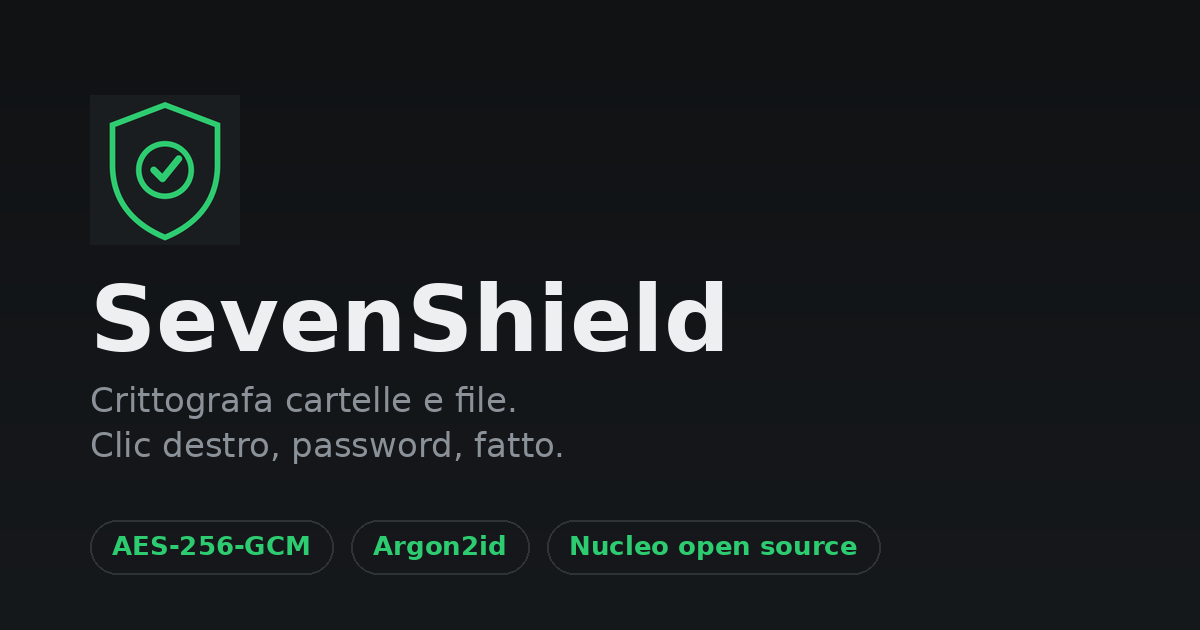
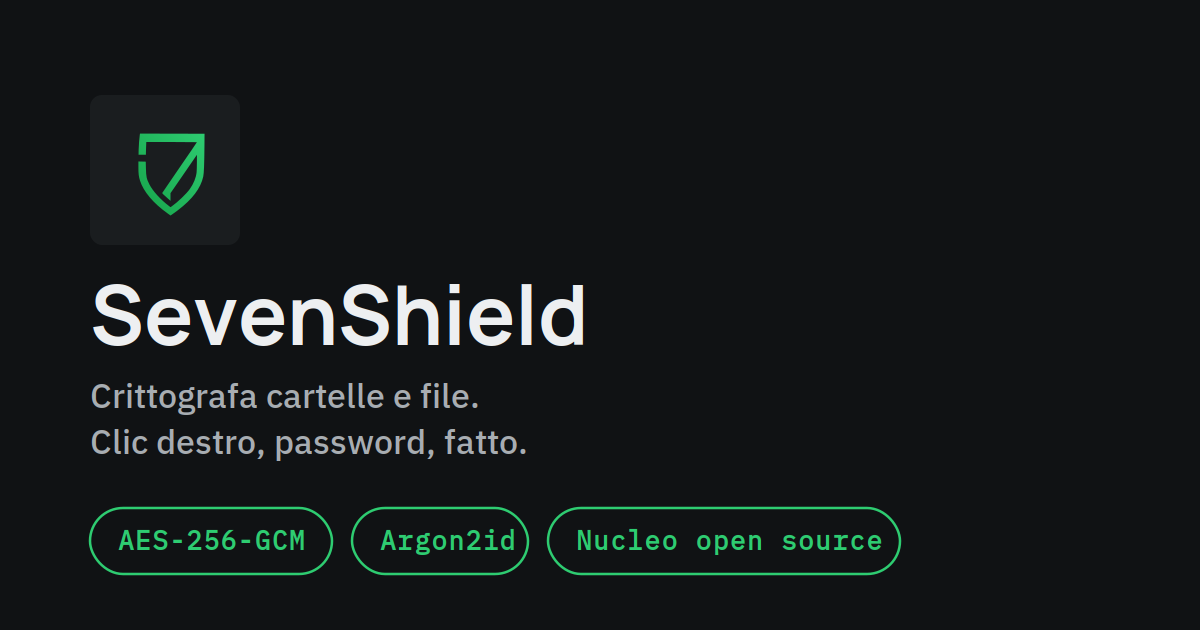
Landingpage Update 04.09.2026 15:20:33,51

diff --git a/en/index.html b/en/index.html
@@ -761,9 +761,26 @@
   <div class="wrap">
     <a class="brand" href="#top">
       <svg width="30" height="30" viewBox="0 0 120 120" fill="none" aria-hidden="true">
-        <path d="M60 8 L102 24 V56 C102 86 84 104 60 114 C36 104 18 86 18 56 V24 Z" fill="none" stroke="#2ECC71" stroke-width="6"/>
-        <circle cx="60" cy="60" r="21" fill="none" stroke="#2ECC71" stroke-width="6"/>
-        <path d="M51 60 L58 67 L71 51" stroke="#2ECC71" stroke-width="7.5" stroke-linecap="round" stroke-linejoin="round" fill="none"/>
+        <defs>
+          <linearGradient id="brandShieldGrad" x1="0%" y1="0%" x2="100%" y2="100%">
+            <stop offset="0%" stop-color="#16A34A"/>
+            <stop offset="100%" stop-color="#2ECC71"/>
+          </linearGradient>
+        </defs>
+        <g transform="translate(13,10) scale(0.28)">
+          <g transform="translate(0.000000,357.000000) scale(0.100000,-0.100000)" fill="url(#brandShieldGrad)" stroke="none">
+            <path d="M727 3013 c-16 -101 -36 -365 -39 -508 l-3 -160 123 0 122 0 0 61 c0
+33 3 129 7 212 l6 152 844 0 c463 0 843 -3 843 -6 0 -4 -78 -119 -173 -258
+-96 -138 -241 -350 -324 -471 -82 -121 -262 -384 -400 -585 -137 -201 -253
+-371 -257 -377 -7 -13 28 -49 192 -192 l82 -73 0 129 0 129 46 65 c25 35 179
+259 342 496 163 238 341 497 395 575 l97 141 0 -249 c0 -137 -5 -288 -10 -335
+-21 -187 -100 -379 -228 -559 -113 -159 -408 -440 -603 -576 l-39 -27 -37 29
+c-285 213 -552 506 -666 729 -94 185 -110 257 -116 535 l-6 225 -122 3 -123 3
+0 -200 c0 -214 11 -304 56 -445 114 -358 437 -743 907 -1079 l108 -77 62 42
+c34 23 115 82 180 131 485 368 764 737 848 1122 24 107 36 422 41 1035 l3 395
+-1076 3 -1076 2 -6 -37z"/>
+          </g>
+        </g>
       </svg>
       <span class="brand-text">
         <span class="brand-name">SevenShield</span>

diff --git a/fr/index.html b/fr/index.html
@@ -761,9 +761,26 @@
   <div class="wrap">
     <a class="brand" href="#top">
       <svg width="30" height="30" viewBox="0 0 120 120" fill="none" aria-hidden="true">
-        <path d="M60 8 L102 24 V56 C102 86 84 104 60 114 C36 104 18 86 18 56 V24 Z" fill="none" stroke="#2ECC71" stroke-width="6"/>
-        <circle cx="60" cy="60" r="21" fill="none" stroke="#2ECC71" stroke-width="6"/>
-        <path d="M51 60 L58 67 L71 51" stroke="#2ECC71" stroke-width="7.5" stroke-linecap="round" stroke-linejoin="round" fill="none"/>
+        <defs>
+          <linearGradient id="brandShieldGrad" x1="0%" y1="0%" x2="100%" y2="100%">
+            <stop offset="0%" stop-color="#16A34A"/>
+            <stop offset="100%" stop-color="#2ECC71"/>
+          </linearGradient>
+        </defs>
+        <g transform="translate(13,10) scale(0.28)">
+          <g transform="translate(0.000000,357.000000) scale(0.100000,-0.100000)" fill="url(#brandShieldGrad)" stroke="none">
+            <path d="M727 3013 c-16 -101 -36 -365 -39 -508 l-3 -160 123 0 122 0 0 61 c0
+33 3 129 7 212 l6 152 844 0 c463 0 843 -3 843 -6 0 -4 -78 -119 -173 -258
+-96 -138 -241 -350 -324 -471 -82 -121 -262 -384 -400 -585 -137 -201 -253
+-371 -257 -377 -7 -13 28 -49 192 -192 l82 -73 0 129 0 129 46 65 c25 35 179
+259 342 496 163 238 341 497 395 575 l97 141 0 -249 c0 -137 -5 -288 -10 -335
+-21 -187 -100 -379 -228 -559 -113 -159 -408 -440 -603 -576 l-39 -27 -37 29
+c-285 213 -552 506 -666 729 -94 185 -110 257 -116 535 l-6 225 -122 3 -123 3
+0 -200 c0 -214 11 -304 56 -445 114 -358 437 -743 907 -1079 l108 -77 62 42
+c34 23 115 82 180 131 485 368 764 737 848 1122 24 107 36 422 41 1035 l3 395
+-1076 3 -1076 2 -6 -37z"/>
+          </g>
+        </g>
       </svg>
       <span class="brand-text">
         <span class="brand-name">SevenShield</span>

diff --git a/index.html b/index.html
@@ -761,9 +761,26 @@
   <div class="wrap">
     <a class="brand" href="#top">
       <svg width="30" height="30" viewBox="0 0 120 120" fill="none" aria-hidden="true">
-        <path d="M60 8 L102 24 V56 C102 86 84 104 60 114 C36 104 18 86 18 56 V24 Z" fill="none" stroke="#2ECC71" stroke-width="6"/>
-        <circle cx="60" cy="60" r="21" fill="none" stroke="#2ECC71" stroke-width="6"/>
-        <path d="M51 60 L58 67 L71 51" stroke="#2ECC71" stroke-width="7.5" stroke-linecap="round" stroke-linejoin="round" fill="none"/>
+        <defs>
+          <linearGradient id="brandShieldGrad" x1="0%" y1="0%" x2="100%" y2="100%">
+            <stop offset="0%" stop-color="#16A34A"/>
+            <stop offset="100%" stop-color="#2ECC71"/>
+          </linearGradient>
+        </defs>
+        <g transform="translate(13,10) scale(0.28)">
+          <g transform="translate(0.000000,357.000000) scale(0.100000,-0.100000)" fill="url(#brandShieldGrad)" stroke="none">
+            <path d="M727 3013 c-16 -101 -36 -365 -39 -508 l-3 -160 123 0 122 0 0 61 c0
+33 3 129 7 212 l6 152 844 0 c463 0 843 -3 843 -6 0 -4 -78 -119 -173 -258
+-96 -138 -241 -350 -324 -471 -82 -121 -262 -384 -400 -585 -137 -201 -253
+-371 -257 -377 -7 -13 28 -49 192 -192 l82 -73 0 129 0 129 46 65 c25 35 179
+259 342 496 163 238 341 497 395 575 l97 141 0 -249 c0 -137 -5 -288 -10 -335
+-21 -187 -100 -379 -228 -559 -113 -159 -408 -440 -603 -576 l-39 -27 -37 29
+c-285 213 -552 506 -666 729 -94 185 -110 257 -116 535 l-6 225 -122 3 -123 3
+0 -200 c0 -214 11 -304 56 -445 114 -358 437 -743 907 -1079 l108 -77 62 42
+c34 23 115 82 180 131 485 368 764 737 848 1122 24 107 36 422 41 1035 l3 395
+-1076 3 -1076 2 -6 -37z"/>
+          </g>
+        </g>
       </svg>
       <span class="brand-text">
         <span class="brand-name">SevenShield</span>

diff --git a/it/index.html b/it/index.html
@@ -761,9 +761,26 @@
   <div class="wrap">
     <a class="brand" href="#top">
       <svg width="30" height="30" viewBox="0 0 120 120" fill="none" aria-hidden="true">
-        <path d="M60 8 L102 24 V56 C102 86 84 104 60 114 C36 104 18 86 18 56 V24 Z" fill="none" stroke="#2ECC71" stroke-width="6"/>
-        <circle cx="60" cy="60" r="21" fill="none" stroke="#2ECC71" stroke-width="6"/>
-        <path d="M51 60 L58 67 L71 51" stroke="#2ECC71" stroke-width="7.5" stroke-linecap="round" stroke-linejoin="round" fill="none"/>
+        <defs>
+          <linearGradient id="brandShieldGrad" x1="0%" y1="0%" x2="100%" y2="100%">
+            <stop offset="0%" stop-color="#16A34A"/>
+            <stop offset="100%" stop-color="#2ECC71"/>
+          </linearGradient>
+        </defs>
+        <g transform="translate(13,10) scale(0.28)">
+          <g transform="translate(0.000000,357.000000) scale(0.100000,-0.100000)" fill="url(#brandShieldGrad)" stroke="none">
+            <path d="M727 3013 c-16 -101 -36 -365 -39 -508 l-3 -160 123 0 122 0 0 61 c0
+33 3 129 7 212 l6 152 844 0 c463 0 843 -3 843 -6 0 -4 -78 -119 -173 -258
+-96 -138 -241 -350 -324 -471 -82 -121 -262 -384 -400 -585 -137 -201 -253
+-371 -257 -377 -7 -13 28 -49 192 -192 l82 -73 0 129 0 129 46 65 c25 35 179
+259 342 496 163 238 341 497 395 575 l97 141 0 -249 c0 -137 -5 -288 -10 -335
+-21 -187 -100 -379 -228 -559 -113 -159 -408 -440 -603 -576 l-39 -27 -37 29
+c-285 213 -552 506 -666 729 -94 185 -110 257 -116 535 l-6 225 -122 3 -123 3
+0 -200 c0 -214 11 -304 56 -445 114 -358 437 -743 907 -1079 l108 -77 62 42
+c34 23 115 82 180 131 485 368 764 737 848 1122 24 107 36 422 41 1035 l3 395
+-1076 3 -1076 2 -6 -37z"/>
+          </g>
+        </g>
       </svg>
       <span class="brand-text">
         <span class="brand-name">SevenShield</span>
